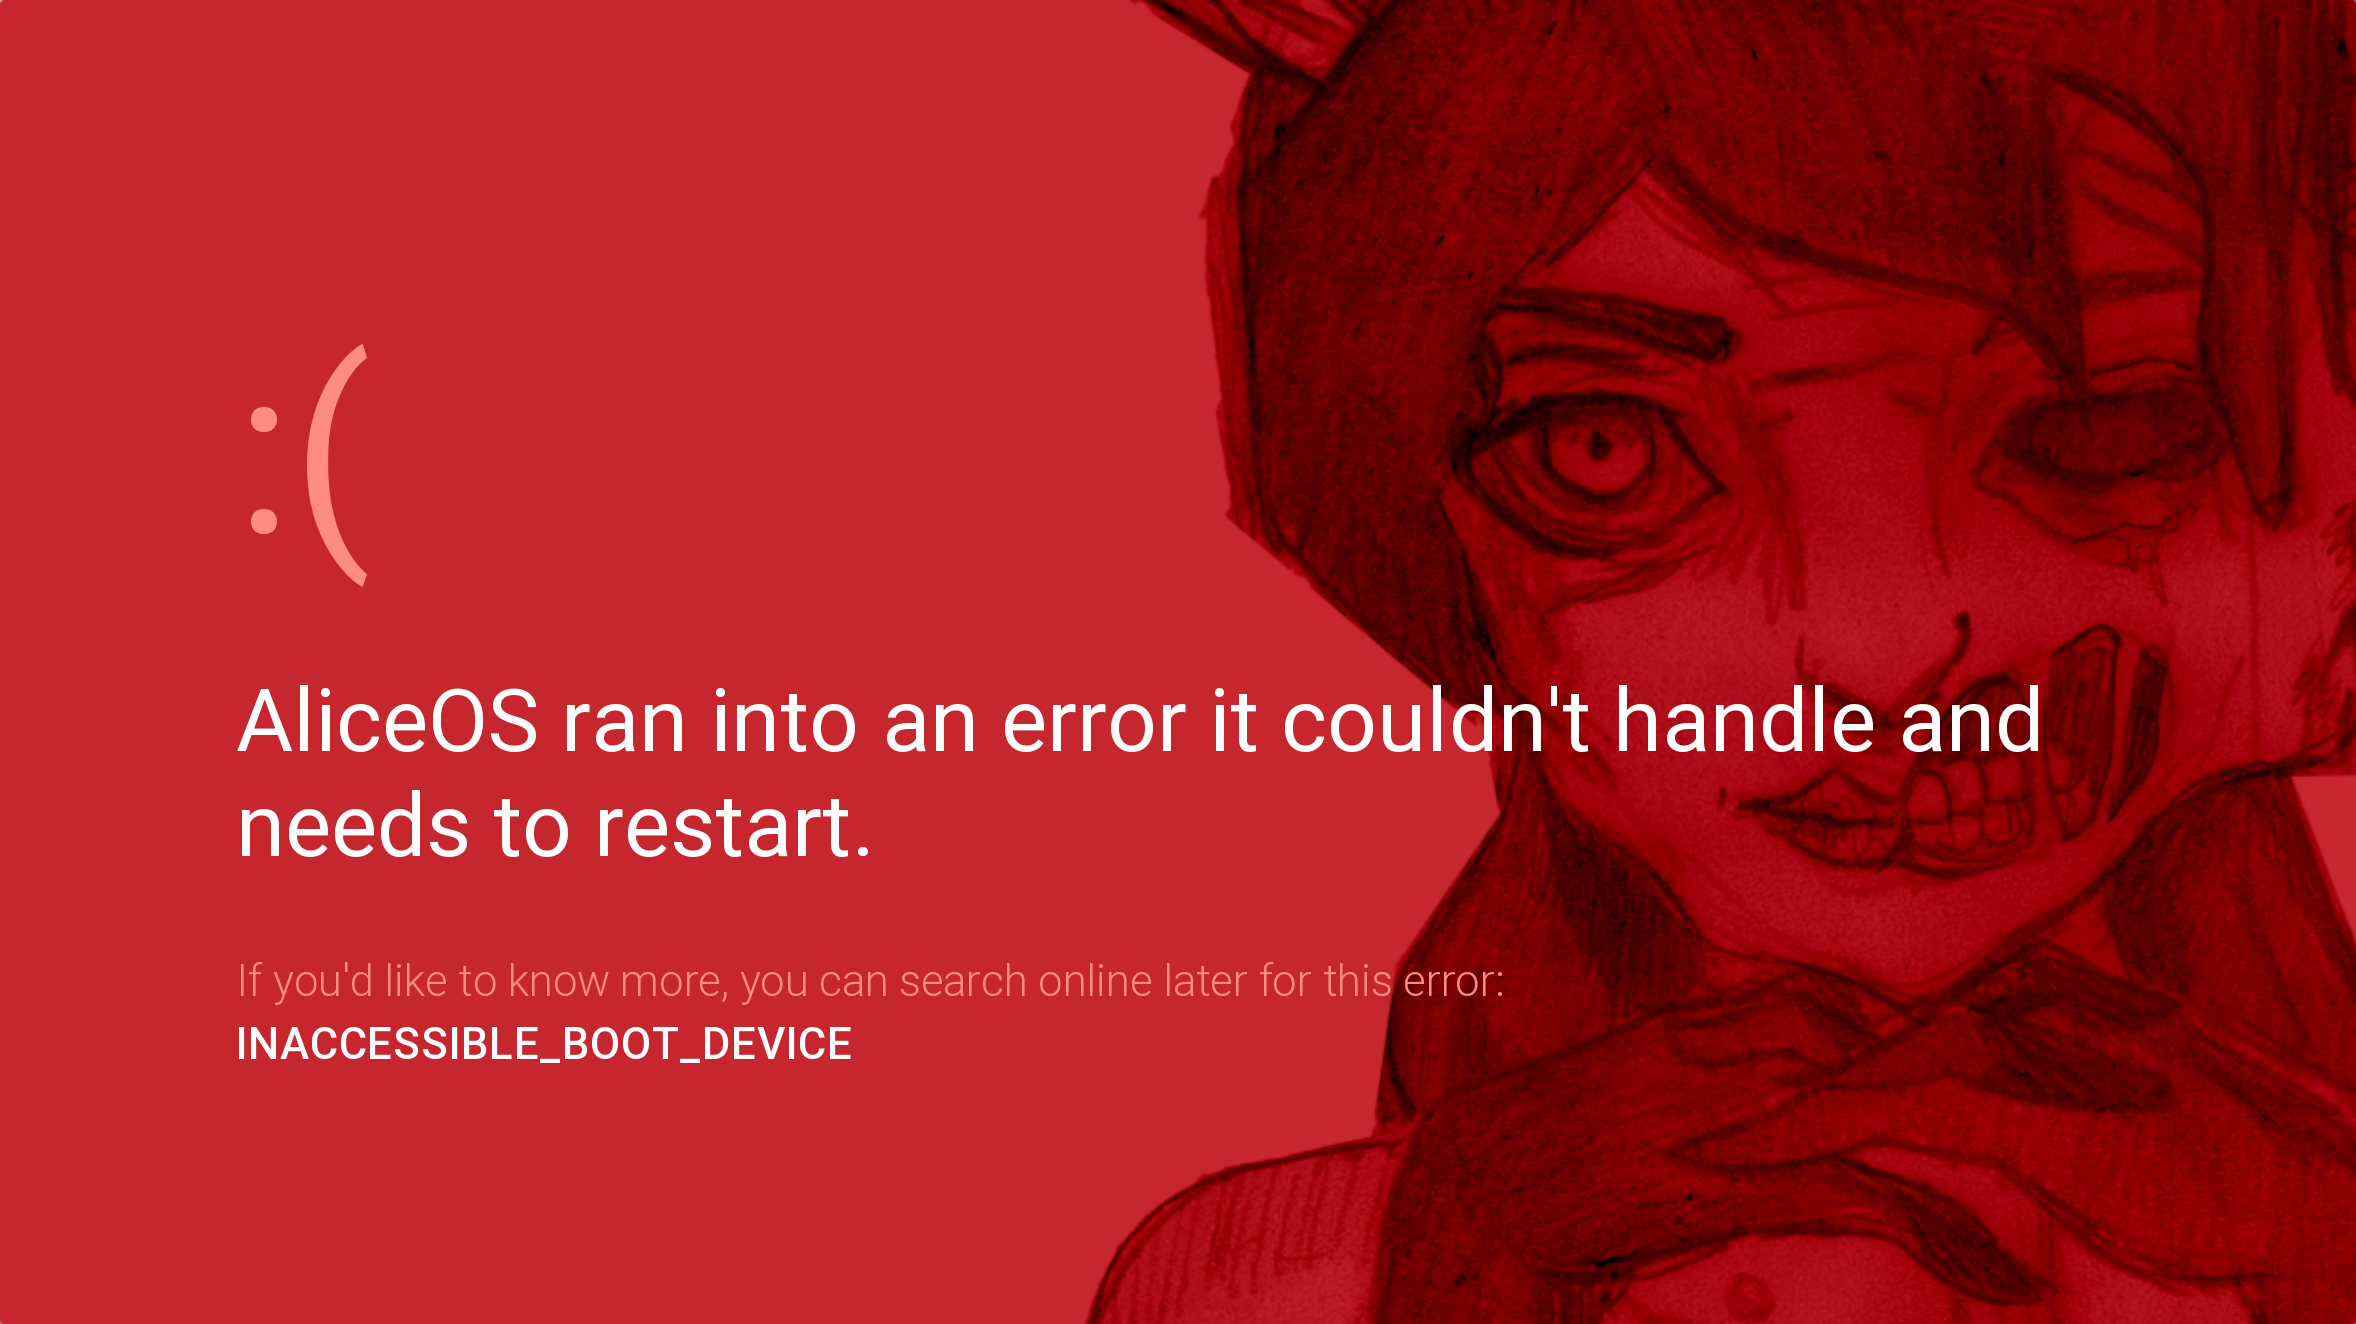
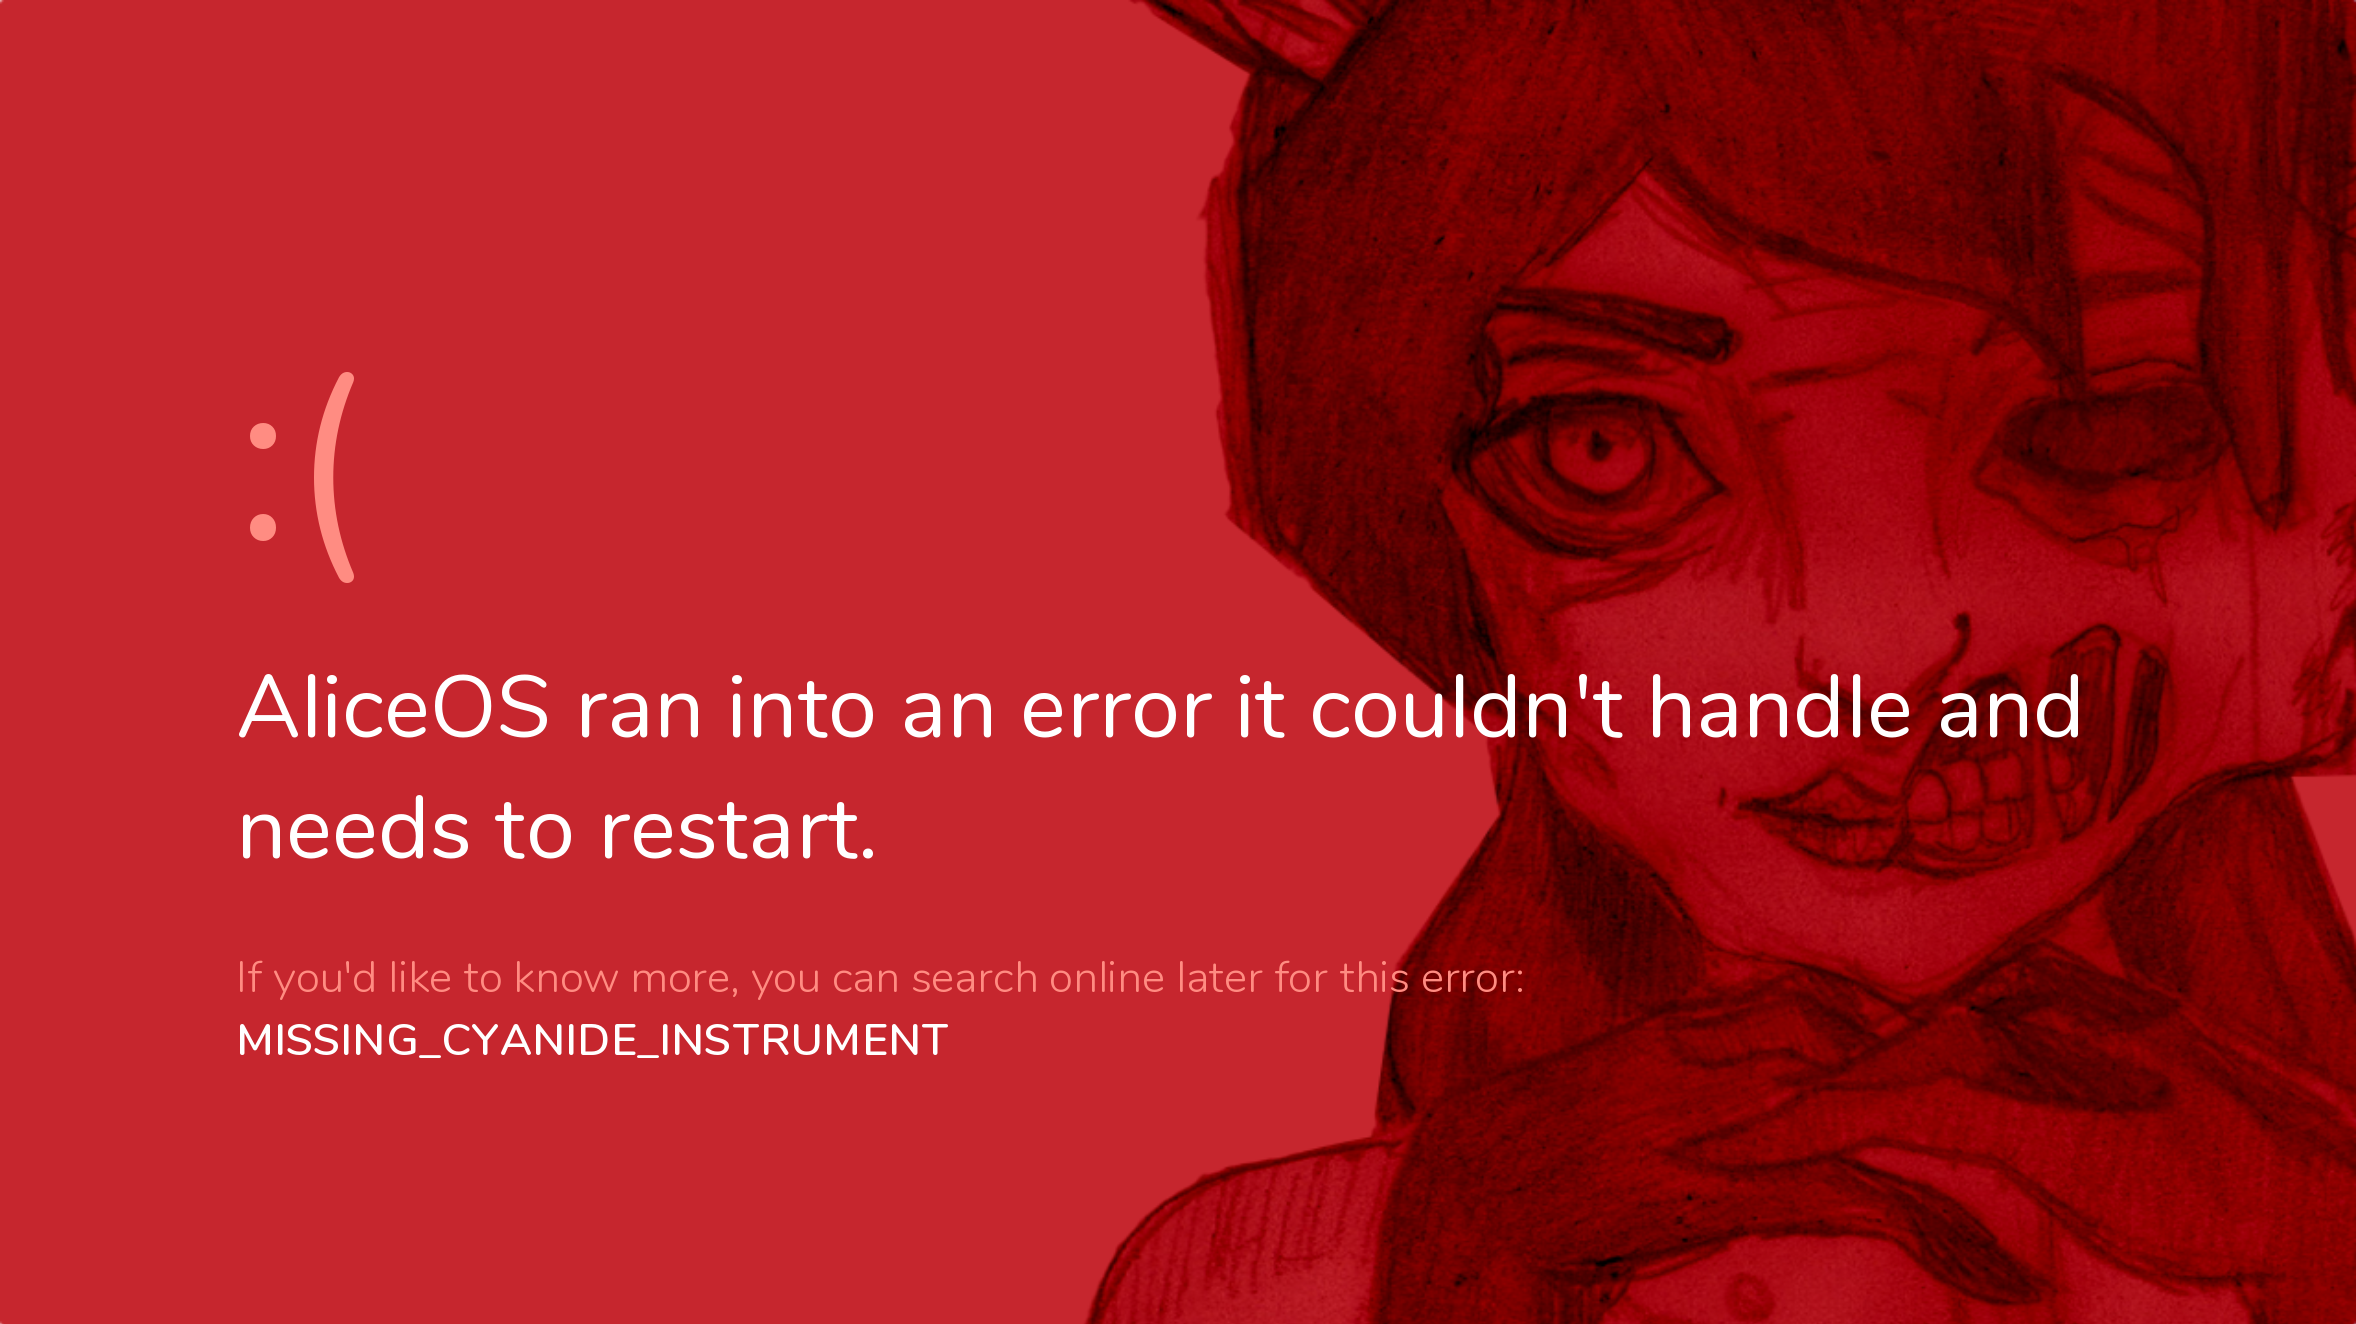
Make changes different from 0.1.2ddtar

diff --git a/system/rsods.md b/system/rsods.md
@@ -1,24 +1,23 @@
 ---
 title: Stop errors
 ---
-## Stop errors
+# Stop errors
 Stop errors (red screens of death) are system-wide errors that occur when a problem with the operating system has been reached. These errors are similar to ones found in Windows 8 and can be customised to the developer's needs.
 ![Standard boot screen](../media/img/rsod.png)
 
-### Typical stop errors
+## Typical stop errors
 - `INACCESSIBLE_BOOT_DEVICE` - the file required to start the integrity check process is missing.
-- `ERR_SEALICE_LOCK` - one or more of the SEAlice components are missing.
-- `ERR_GOBFADU_LOCK` - one or more of the GOBFADU components are missing.
-- `ERR_OS_LOCK` - one or more core operating system files are missing.
-- `ERR_GUI_LOCK` - one or more of the interface-drawing files are missing.
-- `ERR_FRAME_LOCK` - see `ERR_GUI_LOCK`.
-- `ERR_RESOURCE_LOCK` - one or more of the SEAlice components are missing.
-- `ERR_APPLET_LOCK` - one or more of core applet files are missing.
-- `ERR_TEST_LOCK` - one or more of the testing components are missing. This should never appear to the user.
-- `MISSING_CYANIDE_INSTRUMENT` - _Dark nights are upon us! / Black magic slays on the chorus!_
+- `ERR_SEALICE_LOCK` - one or more of the SEAlice components are missing. This is displayed if SEAlice has been implemented into your AliceOS distribution.
+- `MISSING_CYANIDE_INSTRUMENT` - _Dark nights are upon us! / Black magic slays on the chorus!
 
-<div class="p-notification--caution">
-    <p class="p-notification__response">
-        <span class="p-notification__status">Deprecation warning:</span>Some of these Stop errors may be removed with the implementation of SEAlice.
-    </p>
-</div>
+Additionally, manufacturers and AliceOS distribution managers can add additional Stop errors. If you receive a Stop error that doesn't match the defaults listed above, plase consult your AliceOS distribution manager or manufacturer.
+
+## Typical causes of Stop errors
+These may or may not apply to each Stop error, but these are common causes for such errors.
+- SEAlice may have been not properly implemented into the AliceOS distribution.
+- The user failed to agree to the license terms of AliceOS or the game that AliceOS is bundled with.
+- The script may have called an area that doesn't yet exist or broke in a way that Ren'Py doesn't detect.
+- A component needed for a system action was not initialized or made accessible.
+
+## Customizing Stop errors
+The source code for Stop error displays are found in `CoreServices\ASErrorHandler.rpy`. Additionally, if you want to customize the background, look for `Resources/rsod_overlay.png`.

diff --git a/system/bootloader.md b/system/bootloader.md
@@ -23,15 +23,15 @@ The OEM boot screen is generally used in projects that don't put a heavy emphasi
 
 #### Use the OEM boot screen if:
 <ul class="p-list">
-<li class="p-list__item is-ticked">The core components of AliceOS have been changed</li>
-<li class="p-list__item is-ticked">The game/mod is made by a third party</li>
-<li class="p-list__item is-ticked">The AliceOS installation is completely customized</li>
+	<li class="p-list__item is-ticked">The core components of AliceOS have been changed</li>
+	<li class="p-list__item is-ticked">The game/mod is made by a third party</li>
+	<li class="p-list__item is-ticked">The AliceOS installation is completely customized, including branding assets</li>
 </ul>
 
 ## Implementation
 To incorporate this into your project, add the following lines to the beginning your `splashscreen` label:
 <pre><code class = "prettyprint lang-py">
-call <type>_boot_screen #change <type> to default or oem
+call type_boot_screen #change type to default or oem
 if not persistent.setup_complete:
 	call setup
 	persistent.setup_complete = True

diff --git a/applets/security.md b/applets/security.md
@@ -2,7 +2,7 @@
 title: Applet Security
 ---
 # Applet Security
-AliceOS has a major focus on privacy and security of user data, especially with the integration of third-party applets. Applets are required to follow the confinement constraints as set by AliceOS's built-in system integrity protection mechanism and with the GOBFADU policy.
+AliceOS has a major focus on privacy and security of user data, especially with the integration of third-party applets. Applets are required to follow the confinement constraints as set by AliceOS's built-in system integrity protection mechanism and with the SEAlice policy, if implemented.
 
 ## Security Overview
 For those that are familiar with Snapcraft, Applets follow similar sandboxing principles for validation and access:

diff --git a/404.md b/404.md
@@ -13,4 +13,4 @@ There may be a few reasons why you have reached this page:
 - The documentation page is not available for the latest release of AliceOS.
 - Something went wrong server-side.
 
-We recommend searching for the item you're looking for in the sidebar.
+We recommend searching for the item you're looking for in the sidebar or changing the AliceOS documentation version.
